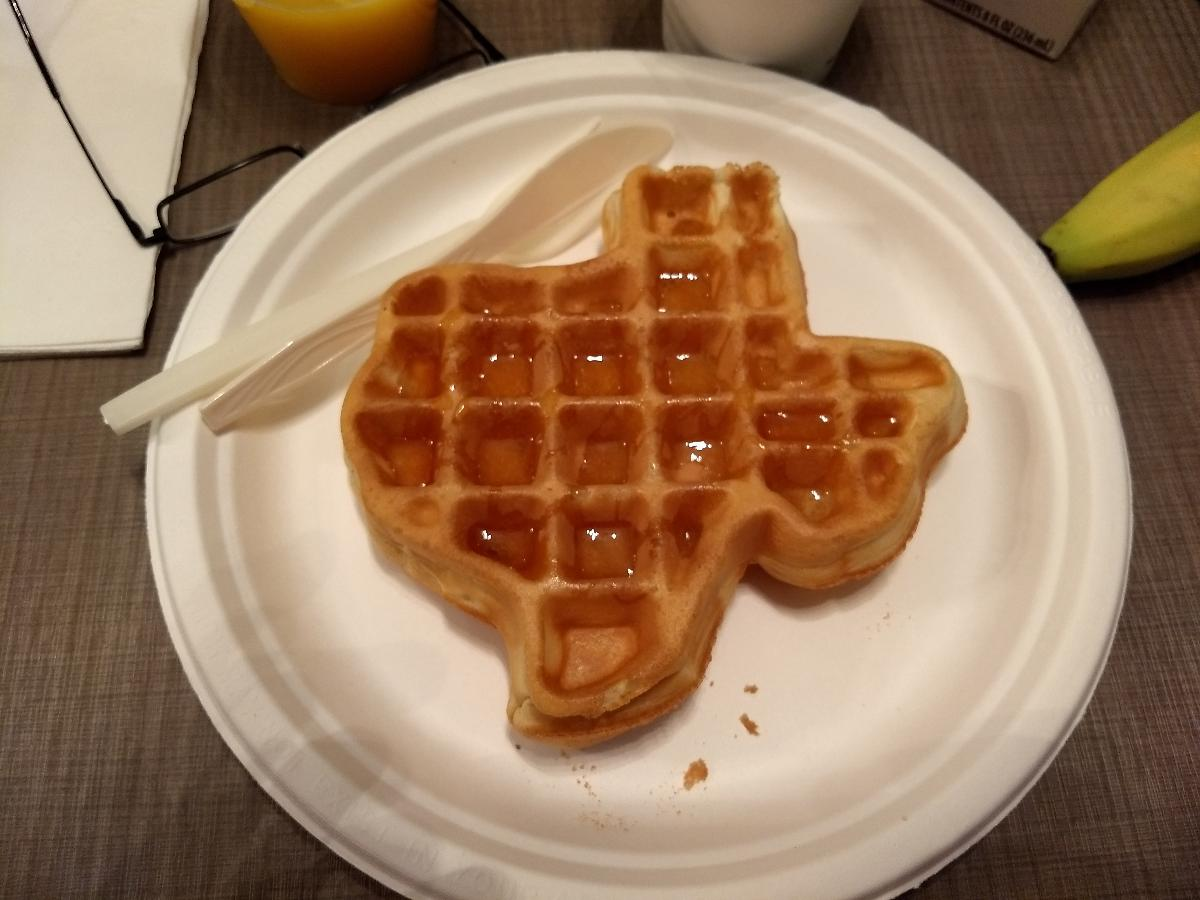
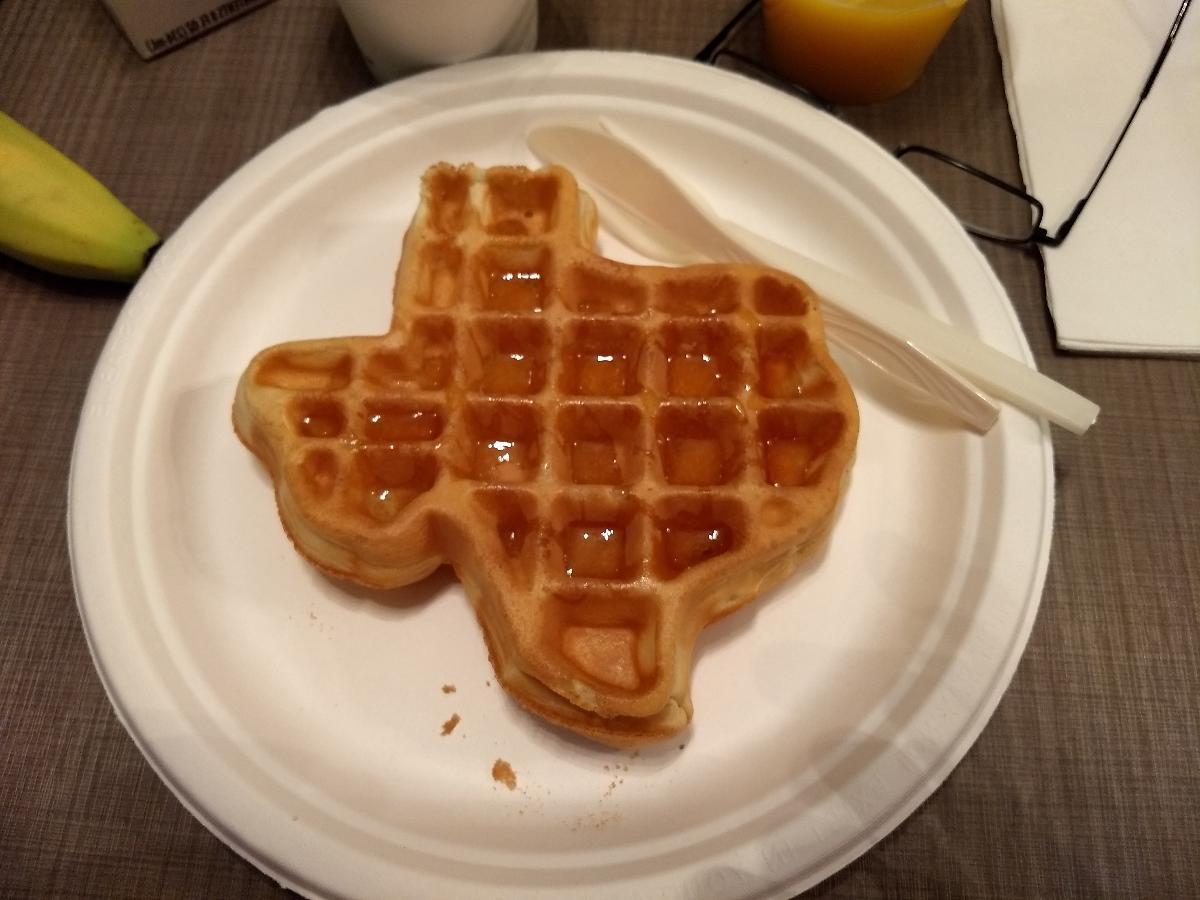
Final photos in texas trip album

diff --git a/Photos/Texas2018/photofilelist.js b/Photos/Texas2018/photofilelist.js
@@ -1,1 +1,1 @@
-var photoFileListJSONString = '{"displayWindow":{"width":"1200","height":"900","title":"Texas 2018"},"images":[{"src":"2018-01-15_16-09-33_889.jpeg","caption":"After 4 hours of white knuckle driving on icy roads in Minnesota and Northern Iowa we were cruising along south of Des Moines when Julie said; What an amazing Sundog! After teaching me what a Sundog was I had her take a couple of pictures."},{"src":"2018-01-15_16-12-50_419.jpeg","caption":"Sundog!"},{"src":"IMG_20180117_085115771 (1).jpg","caption":"The hotel waffle makers in Texas want to make sure you know what state you are in. Too bad I didn\'t get it on the plate properly (needed to flip horizontally)."},{"src":"IMG_20180117_130140294 (1).jpg","caption":"Had to make a stop by Waco to see Chip and Joanna\'s place. Guess it is the number one tourist attraction in Texas, ahead of San Antonio and the Alamo. There were a lot of folks there even with the 30 degree weather, guess they closed the schools and government offices due to the cold weather!!!"},{"src":"IMG_20180117_122415108_BURST001 (1).jpg","caption":"Waco"},{"src":"IMG_20180117_123819022.jpg","caption":"Waco, Julie to the right getting some interior decorations for the house (cotton plants)"},{"src":"IMG_20180117_124302272.jpg","caption":"Waco, the silos"},{"src":"IMG_20180117_124849993.jpg","caption":"Waco, needed to fuel up a bit for the drive to Austin and get something in our stomach."},{"src":"IMG_20180117_140912509_HDR.jpg","caption":"Waco (actually McGregor), the house that started it all with Fixer Upper. It seems that most of the houses are now BNB\'s, AirBNB, or vacation rental places. We looked at a few of the houses that were on the show and they all still looked really nice, although many were in questionable neighborhoods. Waco seems to be a very depressed town, although there are some very nice neighborhoods."},{"src":"IMG_20180118_110455691.jpg","caption":"Austin: Upper 30\'s made our plan of a bike ride unrealistic so we decided to do some urban hiking in downtown Austin and along Ladybird Lake."},{"src":"IMG_20180118_112640115_HDR.jpg","caption":"Austin: Amazing all the building of high rise apartments and condos. The view from the Congress Avenue Bridge."},{"src":"IMG_20180118_112645788_HDR.jpg","caption":"Austin: Julie walking across Congress Avenue Bridge."},{"src":"IMG_20180118_115632166_HDR.jpg","caption":"Austin: Deep into the downtown. Wonder what it would be like to live in this?"},{"src":"IMG_20180118_144725210_HDR.jpg","caption":"Austin: After getting a long needed car wash we drove out into the hill country to Marble Falls. We stopped at Spicewood Vineyards for for a glass of wine. A very nice setting and some good wines. They gave us a few samples to try in selecting a wine and then a few after. Ended up picking up a few bottles of their Tempranillo that was based on grapes from the Texas high country."},{"src":"IMG_20180120_120607014.jpg","caption":"South Padre Island: Ready to get the first bike ride of 2018 on it\'s way."},{"src":"IMG_20180120_103705664_BURST001.jpg","caption":"South Padre Island: Leaving the developed part of the island behind as we head north."},{"src":"IMG_20180120_105924839_BURST000_COVER_TOP.jpg","caption":"South Padre Island: Into the dunes, each time we rode this ride the dunes were covering the road differently. Not sure how often they plow the sand off the road."},{"src":"IMG_20180120_105941171.jpg","caption":"South Padre Island: Mist and sand dunes, yes we are still on the road"},{"src":"IMG_20180120_110933975.jpg","caption":"South Padre Island: Sign says it all."},{"src":"IMG_20180120_111259176.jpg","caption":"South Padre Island: Dunes"},{"src":"IMG_20180120_111831049.jpg","caption":"South Padre Island: Dunes looking north"},{"src":"IMG_20180120_111857674.jpg","caption":"South Padre Island: Julie venturing on the dunes looking towards the Northwest. If it was clearer you would see a big windmill farm."},{"src":"IMG_20180120_124219207_HDR.jpg","caption":"South Padre Island: Lunch special at Blackbeards\' just down the road from our rental. Good food."},{"src":"IMG_20180120_175622009.jpg","caption":"South Padre Island: Sunset and end of a good first day."},{"src":"P1020193.JPG","caption":"South Padre Island: Not sure about a restaurant and bait shop combo, we never ventured in for a meal."},{"src":"P1020198.JPG","caption":"South Padre Island: Cristo de los Pescadores (Christ of the Fishermen). The memorial was donated to the Brownsville-Port Isabel Shrimp Producers Association by the De la Lastra Family in memory of Gustavo De la Lastra and Jose Edwardo De la Lastra. Around the base of the statue of Jesus is an inscription that reads (Father! Receive the souls of these brave fishermen who have sailed through this pass and never returned.)"},{"src":"P1020194.JPG","caption":"South Padre Island: Shrimping boat heading out of the harbor. "},{"src":"IMG_20180121_125838201.jpg","caption":"South Padre Island: Windy day (all the days were windy) calls for kite surfing."},{"src":"P1020203.JPG","caption":"South Padre Island: More kite surfing"},{"src":"P1020205.JPG","caption":"South Padre Island: More kite surfing and freighter heading out of the harbor."},{"src":"IMG_20180121_125003854.jpg","caption":"South Padre Island: More kite surfing"},{"src":"P1020211.JPG","caption":"South Padre Island: You know you are south when there are cacti"},{"src":"P1020213.JPG","caption":"South Padre Island: Home to many species of birds. Check our my slide show on the birds of South Padre Island."},{"src":"IMG_20180122_091742945.jpg","caption":"South Padre Island: A cloudy start to day three on our morning walk."},{"src":"P1020219.JPG","caption":"South Padre Island: Kite surfing at the local windsurf and kite surf club beach."},{"src":"P1020218.JPG","caption":"South Padre Island: Dunes about halfway up the road"},{"src":"P1020227.JPG","caption":"South Padre Island: The rain started to bring out the flowers."},{"src":"P1020228.JPG","caption":"South Padre Island: The Cactus was getting ready to bloom but we never saw one bloom out."},{"src":"IMG_20180122_174838940.jpg","caption":"South Padre Island: Dinner at Pier 19, nice restaurant with a water view and great service. Food was a mixed bag as my soup was amazing but Julie\'s seafood pasta was just okay. Nice way to end day three"},{"src":"IMG_20180123_094520454_HDR.jpg","caption":"South Padre Island: An eerie start to day four on our morning walk."},{"src":"IMG_20180123_094555768.jpg","caption":"South Padre Island: Things cleared up and despite being a bit cool it was a beautiful day"},{"src":"P1020238.JPG","caption":"South Padre Island: Beach fishing seemed to be a popular sport"},{"src":"IMG_20180123_131055124.jpg","caption":"South Padre Island: Low tide bike ride on the beach."},{"src":"P1020258.JPG","caption":"South Padre Island: The jetty on the south end of the island."},{"src":"P1020250.JPG","caption":"South Padre Island: Somebody actually catching a fish"},{"src":"P1020255.JPG","caption":"South Padre Island: Jetty seemed to be a popular place to walk and fish. We never made it out on the jetty."},{"src":"P1020271.JPG","caption":"South Padre Island: Even with many signs against feeding the birds we saw many folks doing it. Guess that is was they are so aggressive when you are eating outside."},{"src":"IMG_20180123_143024005_HDR.jpg","caption":"South Padre Island: Nice to relax outside and have a beverage and lunch at Boomerang Billie\'s"},{"src":"IMG_20180123_144821095_HDR.jpg","caption":"South Padre Island: Nice to relax outside and have a beverage and lunch at Boomerang Billie\'s, best seafood we had on the island."},{"src":"P1020273.JPG","caption":"South Padre Island: The day of rain on Wednesday brought out more wildflowers on Thursday"},{"src":"P1020279.JPG","caption":"South Padre Island: We always puzzled over what this was. A little oasis about halfway up the island."},{"src":"P1020280.JPG","caption":"South Padre Island: Shifting dunes always made the ride different"},{"src":"P1020285.JPG","caption":"South Padre Island: Seemed to be a popular activity, there were always groups out for a ride."},{"src":"P1020290.JPG","caption":"South Padre Island: Another popular activity, looking for shells"},{"src":"P1020297.JPG","caption":"South Padre Island: More flowers"},{"src":"P1020278.JPG","caption":"South Padre Island: More flowers with a bit of rain/dew"},{"src":"P1020422.JPG","caption":"South Padre Island: More flowers"},{"src":"IMG_20180126_180154127.jpg","caption":"South Padre Island: Just down a few doors down from our rental"},{"src":"P1020428.JPG","caption":"South Padre Island: So many shells to choose from..."},{"src":"P1020429.JPG","caption":"South Padre Island: A few choice ones"},{"src":"P1020446.JPG","caption":"South Padre Island: The benefit of rainy weather"},{"src":"IMG_20180126_181126410.jpg","caption":"South Padre Island: A nice way to end the first week"},{"src":"IMG_20180126_181453996.jpg","caption":"South Padre Island: A nice way to end the first week"},{"src":"P1020447.jpg","caption":"South Padre Island: A foggy start for a morning walk"},{"src":"IMG_20180127_151556363_HDR.jpg","caption":"South Padre Island: Port Isabel light house"},{"src":"2018-01-27_15-53-55_241.jpg","caption":"South Padre Island: Over to Port Isabel on the fishing pier"},{"src":"IMG_20180127_154045460.jpg","caption":"South Padre Island: Wow biggest freshwater version I have caught on the Mississippi is 5 pounds."},{"src":"IMG_20180127_154345169.jpg","caption":"South Padre Island: Port Isabel the bridge to south padre island swallowed by fog."},{"src":"IMG_20180128_151940311_HDR.jpg","caption":"South Padre Island: The highlight of this day was a 2 hour guided tour of the birding center."},{"src":"P1020464.JPG","caption":"South Padre Island: Not a bird but pretty just the same"},{"src":"P1020481.JPG","caption":"South Padre Island: Gray Herring"},{"src":"P1020519.JPG","caption":"South Padre Island: Roseate Spoonbill, Seagulls, and redhead duck"},{"src":"IMG_20180128_160947028.jpg","caption":"South Padre Island: Late lunch at The Palms Resort, amazing crab cakes and homemade potato chips."},{"src":"IMG_20180129_143655603.jpg","caption":"South Padre Island: Since it was supposed to be cool and very windy on the island we headed to Brownsville where it was supposed to be warmer (and it was) and less windy (not!!!) to ride the Historic Battlefield Trail. We battled 30-40 MPH winds all the way out for 8 miles and decided to turn around at the spur to the battlefield park (1 more mile). Not the most scenic of bike trails as it mostly goes through neighborhoods with a bit of a greenway."},{"src":"IMG_20180129_175916916_HDR.jpg","caption":"South Padre Island: Sunset pier"},{"src":"IMG_20180129_181018451.jpg","caption":"South Padre Island: Sunset pier"},{"src":"IMG_20180129_175651155.jpg","caption":"South Padre Island: Sunset pier a nice way to end the day"},{"src":"IMG_20180130_133441481.jpg","caption":"South Padre Island: They were busy redoing the sidewalks in preparation for spring break, very nice logo."},{"src":"P1020535.JPG","caption":"South Padre Island: You could rent this, but we did not think it was all that safe looking with the traffic on the road."},{"src":"P1020546.JPG","caption":"South Padre Island: Back to Boomerang Billie\'s for some beer and lunch"},{"src":"P1020552.JPG","caption":"South Padre Island: Once the food came we were popular with the birds a bit freaky."},{"src":"P1020556.JPG","caption":"South Padre Island: Shrimper heading along the shore"},{"src":"P1020559.JPG","caption":"South Padre Island: Up early today for the full lunar eclipse, just getting started."},{"src":"P1020603.JPG","caption":"South Padre Island: Lunar eclipse, the best I could manage as the sun was starting to rise."},{"src":"P1020595.JPG","caption":"South Padre Island: Lunar eclipse from sunset pier (a bit ironic)"},{"src":"P1020611.JPG","caption":"South Padre Island: Sunrise starting"},{"src":"P1020645.JPG","caption":"South Padre Island: Sunrise, the only time we got up early enough for it on our trip!"},{"src":"IMG_20180131_071528292_HDR.jpg","caption":"South Padre Island: Sunrise"},{"src":"P1020696.JPG","caption":"South Padre Island: Kite flying as it was getting close the SPI kite festival."},{"src":"P1020697.JPG","caption":"South Padre Island: Kite flying."},{"src":"P1020699.JPG","caption":"South Padre Island: About as clear a view up the beach as we got all trip, tended to be pretty misty."},{"src":"P1020685.JPG","caption":"South Padre Island: Dolphin playing ahead of a cargo ship coming into the port of Brownsville."},{"src":"P1020691.JPG","caption":"South Padre Island: Tug that was helping the ship navigate a tight corner."},{"src":"P1020692.JPG","caption":"South Padre Island: Around the corner on their way to the port of Brownsville, about another 10 miles or so."},{"src":"P1020695.JPG","caption":"South Padre Island: Then benefit of a few rainy days, the wildflowers were emerging."},{"src":"P1020703.JPG","caption":"South Padre Island: Then benefit of a few rainy days, the wildflowers were emerging."},{"src":"P1020675.JPG","caption":"South Padre Island: Oysters at low tide."},{"src":"P1020712.JPG","caption":"South Padre Island: Sunset at the walkways near the birding center and convention center"},{"src":"P1020717.JPG","caption":"South Padre Island: Sunset at the walkways near the birding center and convention center"},{"src":"P1020728.JPG","caption":"South Padre Island: Sunset at the walkways near the birding center and convention center"},{"src":"P1020743.JPG","caption":"South Padre Island: Blue moon, with a few clouds. I head hoped to get a picture of the blue moon coming up over the ocean but the clouds had made that impossible."},{"src":"P1020747.JPG","caption":"South Padre Island: A clear shot of the blue moon. Quite the day time, for bed."},{"src":"IMG_20180201_110638656.jpg","caption":"South Padre Island: A nice clear day low tide for riding on the beach."},{"src":"P1020756.JPG","caption":"South Padre Island: A nice clear day low tide for riding on the beach."},{"src":"IMG_20180201_131309808.jpg","caption":"South Padre Island: Just seemed like we would miss the cactus blooms."},{"src":"P1020764.JPG","caption":"South Padre Island: Stop at the butterfly garden."},{"src":"P1020763.JPG","caption":"South Padre Island: Stop at the butterfly garden."},{"src":"P1020759.JPG","caption":"South Padre Island: Stop at the butterfly garden. No butterflies, but plenty of caterpillars. "},{"src":"P1020774.JPG","caption":"South Padre Island: You looking at me?"},{"src":"P1020768.JPG","caption":"South Padre Island: An end to a nice day."},{"src":"IMG_20180202_112952282.jpg","caption":"South Padre Island: Jellyfish!!!"},{"src":"IMG_20180202_110919053_HDR.jpg","caption":"South Padre Island: A cold and windy last day, but good for the kite festival. "},{"src":"IMG_20180202_111142556_HDR.jpg","caption":"South Padre Island: A cold and windy last day, but good for the kite festival."},{"src":"IMG_20180203_120803474.jpg","caption":"Corpus Christi: A quick stop to take a look, a very nice waterfront."},{"src":"IMG_20180203_120742318_BURST000_COVER_TOP.jpg","caption":"Corpus Christi: A quick stop to take a look, a very nice waterfront."},{"src":"2018-02-03_15-40-31_956.jpeg","caption":"San Antonio: Quite the amazing city!"},{"src":"IMG_20180203_154043606.jpg","caption":"San Antonio: Riverwalk"},{"src":"IMG_20180203_153915098.jpg","caption":"San Antonio: Riverwalk"},{"src":"2018-02-03_16-26-51_049.jpeg","caption":"San Antonio: Riverwalk"},{"src":"IMG_20180203_154629118_HDR.jpg","caption":"San Antonio: Riverwalk"},{"src":"IMG_20180203_163121008_HDR.jpg","caption":"San Antonio: Riverwalk"},{"src":"IMG_20180203_155656232_HDR.jpg","caption":"San Antonio: The Alamo"},{"src":"2018-02-03_16-14-15_026.jpeg","caption":"San Antonio: The Alamo"},{"src":"IMG_20180203_161620261_HDR.jpg","caption":"San Antonio: Emily Morgan Hotel "},{"src":"IMG_20180203_171810815.jpg","caption":"San Antonio: We got thirsty with all the walking..."},{"src":"IMG_20180203_182354053.jpg","caption":"San Antonio: St Mary\'s Church"},{"src":"IMG_20180203_191828495.jpg","caption":"San Antonio: Margarita time!"},{"src":"IMG_20180204_091915264_HDR.jpg","caption":"San Antonio: Morning brought sunshine and warmth, heading to an 80 degree day."},{"src":"IMG_20180204_094751427.jpg","caption":"San Antonio: Meaning it was a good day for a long bike ride on the amazing river walk trail south of town to see the missions."},{"src":"P1020796.JPG","caption":"San Antonio: First mission of the ride."},{"src":"P1020798.JPG","caption":"San Antonio: Mission San Jose "},{"src":"P1020800.JPG","caption":"San Antonio: Mission San Jose "},{"src":"P1020799.JPG","caption":"San Antonio: Mission San Jose "},{"src":"P1020805.JPG","caption":"San Antonio: Mission San Jose "},{"src":"P1020802.JPG","caption":"San Antonio: Mission San Jose living quarters for the native american population."},{"src":"P1020809.JPG","caption":"San Antonio: Mission San Jose religious living quarters."},{"src":"P1020810.JPG","caption":"San Antonio: Mission San Jose rose window through which the unbaptized would listen to Mass."},{"src":"P1020812.JPG","caption":"San Antonio: Mission San Jose the original church had plaster and was painted."},{"src":"P1020814.JPG","caption":"San Antonio: Mission San Jose, the actual church was very small in size."},{"src":"IMG_20180204_122139731.jpg","caption":"San Antonio: Continuing down the bike trail."},{"src":"P1020795.JPG","caption":"San Antonio: River flood control, this is where the city bypass joins the river."},{"src":"P1020794.JPG","caption":"San Antonio: We did not detour for a tasting."},{"src":"P1020816.JPG","caption":"San Antonio: Mission San Francisco De La Espada. The south most mission we visited."},{"src":"P1020818.JPG","caption":"San Antonio: Mission San Francisco De La Espada"},{"src":"IMG_20180204_121412497.jpg","caption":"San Antonio: Mission San Francisco De La Espada"},{"src":"IMG_20180204_131221370.jpg","caption":"San Antonio: Mission Concepcion"},{"src":"P1020825.JPG","caption":"San Antonio: Mission Concepcion"},{"src":"P1020826.JPG","caption":"San Antonio: Mission Concepcion"},{"src":"P1020828.JPG","caption":"San Antonio: Mission Concepcion"},{"src":"P1020827.JPG","caption":"San Antonio: Mission Concepcion"},{"src":"P1020830.JPG","caption":"San Antonio: Mission Concepcion a parting shot"},{"src":"P1020833.JPG","caption":"San Antonio: We ventured through this famous district of town."},{"src":"P1020838.JPG","caption":"San Antonio: King William district"},{"src":"P1020837.JPG","caption":"San Antonio: King William district"},{"src":"P1020834.JPG","caption":"San Antonio: King William district"},{"src":"P1020832.JPG","caption":"San Antonio: King William district"},{"src":"P1020840.JPG","caption":"San Antonio: Looking upstream to downtown and the Tower Life Building."},{"src":"P1020866.JPG","caption":"San Antonio: Showered, refreshed and time for a guided boat ride through San Antonio (highly recommended)"},{"src":"P1020843.JPG","caption":"San Antonio: Boat ride views"},{"src":"P1020849.JPG","caption":"San Antonio: Boat ride views"},{"src":"P1020870.JPG","caption":"San Antonio: Boat ride views"},{"src":"P1020856.JPG","caption":"San Antonio: Boat ride views, Tower of the Americas"},{"src":"P1020872.JPG","caption":"San Antonio: Tower of Life Building"},{"src":"P1020875.JPG","caption":"San Antonio:"},{"src":"IMG_20180204_163613421_HDR.jpg","caption":"San Antonio: River walk"},{"src":"IMG_20180204_173348214.jpg","caption":"San Antonio: River walk"},{"src":"P1020878.JPG","caption":"San Antonio: River walk"},{"src":"IMG_20180204_173939428.jpg","caption":"San Antonio: River walk"},{"src":"IMG_20180204_171901908.jpg","caption":"San Antonio: River walk, time to have some dinner."}]}'
+var photoFileListJSONString = '{"displayWindow":{"width":"1200","height":"900","title":"Texas 2018"},"images":[{"src":"2018-01-15_16-09-33_889.jpeg","caption":"After 4 hours of white knuckle driving on icy roads in Minnesota and Northern Iowa we were cruising along south of Des Moines when Julie said; What an amazing Sundog! After teaching me what a Sundog was I had her take a couple of pictures."},{"src":"2018-01-15_16-12-50_419.jpeg","caption":"Sundog!"},{"src":"IMG_20180117_085115771 (1).jpg","caption":"The hotel waffle makers in Texas want to make sure you know what state you are in."},{"src":"IMG_20180117_130140294 (1).jpg","caption":"Had to make a stop by Waco to see Chip and Joanna\'s place. Guess it is the number one tourist attraction in Texas, ahead of San Antonio and the Alamo. There were a lot of folks there even with the 30 degree weather, guess they closed the schools and government offices due to the cold weather!!!"},{"src":"IMG_20180117_122415108_BURST001 (1).jpg","caption":"Waco"},{"src":"IMG_20180117_123819022.jpg","caption":"Waco, Julie to the right getting some interior decorations for the house (cotton plants)"},{"src":"IMG_20180117_124302272.jpg","caption":"Waco, the silos"},{"src":"IMG_20180117_124849993.jpg","caption":"Waco, needed to fuel up a bit for the drive to Austin and get something in our stomach."},{"src":"IMG_20180117_140912509_HDR.jpg","caption":"Waco (actually McGregor), the house that started it all with Fixer Upper. It seems that most of the houses are now BNB\'s, AirBNB, or vacation rental places. We looked at a few of the houses that were on the show and they all still looked really nice, although many were in questionable neighborhoods. Waco seems to be a very depressed town, although there are some very nice neighborhoods."},{"src":"IMG_20180118_110455691.jpg","caption":"Austin: Upper 30\'s made our plan of a bike ride unrealistic so we decided to do some urban hiking in downtown Austin and along Ladybird Lake."},{"src":"IMG_20180118_112640115_HDR.jpg","caption":"Austin: Amazing all the building of high rise apartments and condos. The view from the Congress Avenue Bridge."},{"src":"IMG_20180118_112645788_HDR.jpg","caption":"Austin: Julie walking across Congress Avenue Bridge."},{"src":"IMG_20180118_115632166_HDR.jpg","caption":"Austin: Deep into the downtown. Wonder what it would be like to live in this?"},{"src":"IMG_20180118_144725210_HDR.jpg","caption":"Austin: After getting a long needed car wash we drove out into the hill country to Marble Falls. We stopped at Spicewood Vineyards for for a glass of wine. A very nice setting and some good wines. They gave us a few samples to try in selecting a wine and then a few after. Ended up picking up a few bottles of their Tempranillo that was based on grapes from the Texas high country."},{"src":"IMG_20180120_120607014.jpg","caption":"South Padre Island: Ready to get the first bike ride of 2018 on it\'s way."},{"src":"IMG_20180120_103705664_BURST001.jpg","caption":"South Padre Island: Leaving the developed part of the island behind as we head north."},{"src":"IMG_20180120_105924839_BURST000_COVER_TOP.jpg","caption":"South Padre Island: Into the dunes, each time we rode this ride the dunes were covering the road differently. Not sure how often they plow the sand off the road."},{"src":"IMG_20180120_105941171.jpg","caption":"South Padre Island: Mist and sand dunes, yes we are still on the road"},{"src":"IMG_20180120_110933975.jpg","caption":"South Padre Island: Sign says it all."},{"src":"IMG_20180120_111259176.jpg","caption":"South Padre Island: Dunes"},{"src":"IMG_20180120_111831049.jpg","caption":"South Padre Island: Dunes looking north"},{"src":"IMG_20180120_111857674.jpg","caption":"South Padre Island: Julie venturing on the dunes looking towards the Northwest. If it was clearer you would see a big windmill farm."},{"src":"IMG_20180120_124219207_HDR.jpg","caption":"South Padre Island: Lunch special at Blackbeards\' just down the road from our rental. Good food."},{"src":"IMG_20180120_175622009.jpg","caption":"South Padre Island: Sunset and end of a good first day."},{"src":"P1020193.JPG","caption":"South Padre Island: Not sure about a restaurant and bait shop combo, we never ventured in for a meal."},{"src":"P1020198.JPG","caption":"South Padre Island: Cristo de los Pescadores (Christ of the Fishermen). The memorial was donated to the Brownsville-Port Isabel Shrimp Producers Association by the De la Lastra Family in memory of Gustavo De la Lastra and Jose Edwardo De la Lastra. Around the base of the statue of Jesus is an inscription that reads (Father! Receive the souls of these brave fishermen who have sailed through this pass and never returned.)"},{"src":"P1020194.JPG","caption":"South Padre Island: Shrimping boat heading out of the harbor. "},{"src":"IMG_20180121_125838201.jpg","caption":"South Padre Island: Windy day (all the days were windy) calls for kite surfing."},{"src":"P1020203.JPG","caption":"South Padre Island: More kite surfing"},{"src":"P1020205.JPG","caption":"South Padre Island: More kite surfing and freighter heading out of the harbor."},{"src":"IMG_20180121_125003854.jpg","caption":"South Padre Island: More kite surfing"},{"src":"P1020211.JPG","caption":"South Padre Island: You know you are south when there are cacti"},{"src":"P1020213.JPG","caption":"South Padre Island: Home to many species of birds. Check our my slide show on the birds of South Padre Island."},{"src":"IMG_20180122_091742945.jpg","caption":"South Padre Island: A cloudy start to day three on our morning walk."},{"src":"P1020219.JPG","caption":"South Padre Island: Kite surfing at the local windsurf and kite surf club beach."},{"src":"P1020218.JPG","caption":"South Padre Island: Dunes about halfway up the road"},{"src":"P1020227.JPG","caption":"South Padre Island: The rain started to bring out the flowers."},{"src":"P1020228.JPG","caption":"South Padre Island: The Cactus was getting ready to bloom but we never saw one bloom out."},{"src":"IMG_20180122_174838940.jpg","caption":"South Padre Island: Dinner at Pier 19, nice restaurant with a water view and great service. Food was a mixed bag as my soup was amazing but Julie\'s seafood pasta was just okay. Nice way to end day three"},{"src":"IMG_20180123_094520454_HDR.jpg","caption":"South Padre Island: An eerie start to day four on our morning walk."},{"src":"IMG_20180123_094555768.jpg","caption":"South Padre Island: Things cleared up and despite being a bit cool it was a beautiful day"},{"src":"P1020238.JPG","caption":"South Padre Island: Beach fishing seemed to be a popular sport"},{"src":"IMG_20180123_131055124.jpg","caption":"South Padre Island: Low tide bike ride on the beach."},{"src":"P1020258.JPG","caption":"South Padre Island: The jetty on the south end of the island."},{"src":"P1020250.JPG","caption":"South Padre Island: Somebody actually catching a fish"},{"src":"P1020255.JPG","caption":"South Padre Island: Jetty seemed to be a popular place to walk and fish. We never made it out on the jetty."},{"src":"P1020271.JPG","caption":"South Padre Island: Even with many signs against feeding the birds we saw many folks doing it. Guess that is was they are so aggressive when you are eating outside."},{"src":"IMG_20180123_143024005_HDR.jpg","caption":"South Padre Island: Nice to relax outside and have a beverage and lunch at Boomerang Billie\'s"},{"src":"IMG_20180123_144821095_HDR.jpg","caption":"South Padre Island: Nice to relax outside and have a beverage and lunch at Boomerang Billie\'s, best seafood we had on the island."},{"src":"P1020273.JPG","caption":"South Padre Island: The day of rain on Wednesday brought out more wildflowers on Thursday"},{"src":"P1020279.JPG","caption":"South Padre Island: We always puzzled over what this was. A little oasis about halfway up the island."},{"src":"P1020280.JPG","caption":"South Padre Island: Shifting dunes always made the ride different"},{"src":"P1020285.JPG","caption":"South Padre Island: Seemed to be a popular activity, there were always groups out for a ride."},{"src":"P1020290.JPG","caption":"South Padre Island: Another popular activity, looking for shells"},{"src":"P1020297.JPG","caption":"South Padre Island: More flowers"},{"src":"P1020278.JPG","caption":"South Padre Island: More flowers with a bit of rain/dew"},{"src":"P1020422.JPG","caption":"South Padre Island: More flowers"},{"src":"IMG_20180126_180154127.jpg","caption":"South Padre Island: Just down a few doors down from our rental"},{"src":"P1020428.JPG","caption":"South Padre Island: So many shells to choose from..."},{"src":"P1020429.JPG","caption":"South Padre Island: A few choice ones"},{"src":"P1020446.JPG","caption":"South Padre Island: The benefit of rainy weather"},{"src":"IMG_20180126_181126410.jpg","caption":"South Padre Island: A nice way to end the first week"},{"src":"IMG_20180126_181453996.jpg","caption":"South Padre Island: A nice way to end the first week"},{"src":"P1020447.jpg","caption":"South Padre Island: A foggy start for a morning walk"},{"src":"IMG_20180127_151556363_HDR.jpg","caption":"South Padre Island: Port Isabel light house"},{"src":"2018-01-27_15-53-55_241.jpg","caption":"South Padre Island: Over to Port Isabel on the fishing pier"},{"src":"IMG_20180127_154045460.jpg","caption":"South Padre Island: Wow biggest freshwater version I have caught on the Mississippi is 5 pounds."},{"src":"IMG_20180127_154345169.jpg","caption":"South Padre Island: Port Isabel the bridge to south padre island swallowed by fog."},{"src":"IMG_20180128_151940311_HDR.jpg","caption":"South Padre Island: The highlight of this day was a 2 hour guided tour of the birding center."},{"src":"P1020464.JPG","caption":"South Padre Island: Not a bird but pretty just the same"},{"src":"P1020481.JPG","caption":"South Padre Island: Gray Herring"},{"src":"P1020519.JPG","caption":"South Padre Island: Roseate Spoonbill, Seagulls, and redhead duck"},{"src":"IMG_20180128_160947028.jpg","caption":"South Padre Island: Late lunch at The Palms Resort, amazing crab cakes and homemade potato chips."},{"src":"IMG_20180129_143655603.jpg","caption":"South Padre Island: Since it was supposed to be cool and very windy on the island we headed to Brownsville where it was supposed to be warmer (and it was) and less windy (not!!!) to ride the Historic Battlefield Trail. We battled 30-40 MPH winds all the way out for 8 miles and decided to turn around at the spur to the battlefield park (1 more mile). Not the most scenic of bike trails as it mostly goes through neighborhoods with a bit of a greenway."},{"src":"IMG_20180129_175916916_HDR.jpg","caption":"South Padre Island: Sunset pier"},{"src":"IMG_20180129_181018451.jpg","caption":"South Padre Island: Sunset pier"},{"src":"IMG_20180129_175651155.jpg","caption":"South Padre Island: Sunset pier a nice way to end the day"},{"src":"IMG_20180130_133441481.jpg","caption":"South Padre Island: They were busy redoing the sidewalks in preparation for spring break, very nice logo."},{"src":"P1020535.JPG","caption":"South Padre Island: You could rent this, but we did not think it was all that safe looking with the traffic on the road."},{"src":"P1020546.JPG","caption":"South Padre Island: Back to Boomerang Billie\'s for some beer and lunch"},{"src":"P1020552.JPG","caption":"South Padre Island: Once the food came we were popular with the birds a bit freaky."},{"src":"P1020556.JPG","caption":"South Padre Island: Shrimper heading along the shore"},{"src":"P1020559.JPG","caption":"South Padre Island: Up early today for the full lunar eclipse, just getting started."},{"src":"P1020603.JPG","caption":"South Padre Island: Lunar eclipse, the best I could manage as the sun was starting to rise."},{"src":"P1020595.JPG","caption":"South Padre Island: Lunar eclipse from sunset pier (a bit ironic)"},{"src":"P1020611.JPG","caption":"South Padre Island: Sunrise starting"},{"src":"P1020645.JPG","caption":"South Padre Island: Sunrise, the only time we got up early enough for it on our trip!"},{"src":"IMG_20180131_071528292_HDR.jpg","caption":"South Padre Island: Sunrise"},{"src":"P1020696.JPG","caption":"South Padre Island: Kite flying as it was getting close the SPI kite festival."},{"src":"P1020697.JPG","caption":"South Padre Island: Kite flying."},{"src":"P1020699.JPG","caption":"South Padre Island: About as clear a view up the beach as we got all trip, tended to be pretty misty."},{"src":"P1020685.JPG","caption":"South Padre Island: Dolphin playing ahead of a cargo ship coming into the port of Brownsville."},{"src":"P1020691.JPG","caption":"South Padre Island: Tug that was helping the ship navigate a tight corner."},{"src":"P1020692.JPG","caption":"South Padre Island: Around the corner on their way to the port of Brownsville, about another 10 miles or so."},{"src":"P1020695.JPG","caption":"South Padre Island: Then benefit of a few rainy days, the wildflowers were emerging."},{"src":"P1020703.JPG","caption":"South Padre Island: Then benefit of a few rainy days, the wildflowers were emerging."},{"src":"P1020675.JPG","caption":"South Padre Island: Oysters at low tide."},{"src":"P1020712.JPG","caption":"South Padre Island: Sunset at the walkways near the birding center and convention center"},{"src":"P1020717.JPG","caption":"South Padre Island: Sunset at the walkways near the birding center and convention center"},{"src":"P1020728.JPG","caption":"South Padre Island: Sunset at the walkways near the birding center and convention center"},{"src":"P1020743.JPG","caption":"South Padre Island: Blue moon, with a few clouds. I head hoped to get a picture of the blue moon coming up over the ocean but the clouds had made that impossible."},{"src":"P1020747.JPG","caption":"South Padre Island: A clear shot of the blue moon. Quite the day time, for bed."},{"src":"IMG_20180201_110638656.jpg","caption":"South Padre Island: A nice clear day low tide for riding on the beach."},{"src":"P1020756.JPG","caption":"South Padre Island: A nice clear day low tide for riding on the beach."},{"src":"IMG_20180201_131309808.jpg","caption":"South Padre Island: Just seemed like we would miss the cactus blooms."},{"src":"P1020764.JPG","caption":"South Padre Island: Stop at the butterfly garden."},{"src":"P1020763.JPG","caption":"South Padre Island: Stop at the butterfly garden."},{"src":"P1020759.JPG","caption":"South Padre Island: Stop at the butterfly garden. No butterflies, but plenty of caterpillars. "},{"src":"P1020774.JPG","caption":"South Padre Island: You looking at me?"},{"src":"P1020768.JPG","caption":"South Padre Island: An end to a nice day."},{"src":"IMG_20180202_112952282.jpg","caption":"South Padre Island: Jellyfish!!!"},{"src":"IMG_20180202_110919053_HDR.jpg","caption":"South Padre Island: A cold and windy last day, but good for the kite festival. "},{"src":"IMG_20180202_111142556_HDR.jpg","caption":"South Padre Island: A cold and windy last day, but good for the kite festival."},{"src":"IMG_20180203_120803474.jpg","caption":"Corpus Christi: A quick stop to take a look, a very nice waterfront."},{"src":"IMG_20180203_120742318_BURST000_COVER_TOP.jpg","caption":"Corpus Christi: A quick stop to take a look, a very nice waterfront."},{"src":"2018-02-03_15-40-31_956.jpeg","caption":"San Antonio: Quite the amazing city!"},{"src":"IMG_20180203_154043606.jpg","caption":"San Antonio: Riverwalk"},{"src":"IMG_20180203_153915098.jpg","caption":"San Antonio: Riverwalk"},{"src":"2018-02-03_16-26-51_049.jpeg","caption":"San Antonio: Riverwalk"},{"src":"IMG_20180203_154629118_HDR.jpg","caption":"San Antonio: Riverwalk"},{"src":"IMG_20180203_163121008_HDR.jpg","caption":"San Antonio: Riverwalk"},{"src":"IMG_20180203_155656232_HDR.jpg","caption":"San Antonio: The Alamo"},{"src":"2018-02-03_16-14-15_026.jpeg","caption":"San Antonio: The Alamo"},{"src":"IMG_20180203_161620261_HDR.jpg","caption":"San Antonio: Emily Morgan Hotel "},{"src":"IMG_20180203_171810815.jpg","caption":"San Antonio: We got thirsty with all the walking..."},{"src":"IMG_20180203_182354053.jpg","caption":"San Antonio: St Mary\'s Church"},{"src":"IMG_20180203_191828495.jpg","caption":"San Antonio: Margarita time!"},{"src":"IMG_20180204_091915264_HDR.jpg","caption":"San Antonio: Morning brought sunshine and warmth, heading to an 80 degree day."},{"src":"IMG_20180204_094751427.jpg","caption":"San Antonio: Meaning it was a good day for a long bike ride on the amazing river walk trail south of town to see the missions."},{"src":"P1020796.JPG","caption":"San Antonio: First mission of the ride."},{"src":"P1020798.JPG","caption":"San Antonio: Mission San Jose "},{"src":"P1020800.JPG","caption":"San Antonio: Mission San Jose "},{"src":"P1020799.JPG","caption":"San Antonio: Mission San Jose "},{"src":"P1020805.JPG","caption":"San Antonio: Mission San Jose "},{"src":"P1020802.JPG","caption":"San Antonio: Mission San Jose living quarters for the native american population."},{"src":"P1020809.JPG","caption":"San Antonio: Mission San Jose religious living quarters."},{"src":"P1020810.JPG","caption":"San Antonio: Mission San Jose rose window through which the unbaptized would listen to Mass."},{"src":"P1020812.JPG","caption":"San Antonio: Mission San Jose the original church had plaster and was painted."},{"src":"P1020814.JPG","caption":"San Antonio: Mission San Jose, the actual church was very small in size."},{"src":"IMG_20180204_122139731.jpg","caption":"San Antonio: Continuing down the bike trail."},{"src":"P1020795.JPG","caption":"San Antonio: River flood control, this is where the city bypass joins the river."},{"src":"P1020794.JPG","caption":"San Antonio: We did not detour for a tasting."},{"src":"P1020816.JPG","caption":"San Antonio: Mission San Francisco De La Espada. The south most mission we visited."},{"src":"P1020818.JPG","caption":"San Antonio: Mission San Francisco De La Espada"},{"src":"IMG_20180204_121412497.jpg","caption":"San Antonio: Mission San Francisco De La Espada"},{"src":"IMG_20180204_131221370.jpg","caption":"San Antonio: Mission Concepcion"},{"src":"P1020825.JPG","caption":"San Antonio: Mission Concepcion"},{"src":"P1020826.JPG","caption":"San Antonio: Mission Concepcion"},{"src":"P1020828.JPG","caption":"San Antonio: Mission Concepcion"},{"src":"P1020827.JPG","caption":"San Antonio: Mission Concepcion"},{"src":"P1020830.JPG","caption":"San Antonio: Mission Concepcion a parting shot"},{"src":"P1020833.JPG","caption":"San Antonio: We ventured through this famous district of town."},{"src":"P1020838.JPG","caption":"San Antonio: King William district"},{"src":"P1020837.JPG","caption":"San Antonio: King William district"},{"src":"P1020834.JPG","caption":"San Antonio: King William district"},{"src":"P1020832.JPG","caption":"San Antonio: King William district"},{"src":"P1020840.JPG","caption":"San Antonio: Looking upstream to downtown and the Tower Life Building."},{"src":"P1020866.JPG","caption":"San Antonio: Showered, refreshed and time for a guided boat ride through San Antonio (highly recommended)"},{"src":"P1020843.JPG","caption":"San Antonio: Boat ride views"},{"src":"P1020849.JPG","caption":"San Antonio: Boat ride views"},{"src":"P1020870.JPG","caption":"San Antonio: Boat ride views"},{"src":"P1020856.JPG","caption":"San Antonio: Boat ride views, Tower of the Americas"},{"src":"P1020872.JPG","caption":"San Antonio: Tower of Life Building"},{"src":"P1020875.JPG","caption":"San Antonio:"},{"src":"IMG_20180204_163613421_HDR.jpg","caption":"San Antonio: River walk"},{"src":"IMG_20180204_173348214.jpg","caption":"San Antonio: River walk"},{"src":"P1020878.JPG","caption":"San Antonio: River walk"},{"src":"IMG_20180204_173939428.jpg","caption":"San Antonio: River walk"},{"src":"IMG_20180204_171901908.jpg","caption":"San Antonio: River walk, time to have some dinner."},{"src":"27540627_10211720891037592_6032852346772833578_n.jpg","caption":"Oklahoma City: Looking across the pool to the 9:01 pillar, a minute before the bombing"},{"src":"27545294_10211720891917614_4220745472705269132_n.jpg","caption":"Oklahoma City: One chair for each victim, the smaller chairs are for the children victims :-("},{"src":"27654884_10211720892757635_2273926558230497584_n.jpg","caption":"Oklahoma City: Written by a rescuer"},{"src":"27545487_10211720894037667_94520750724443997_n.jpg","caption":"Oklahoma City: Tiles made from a few of the thousands of cards of support from children"},{"src":"24129753_10211720894397676_213853963370086053_n.jpg","caption":"Oklahoma City: Looking towards the 9:03 pillar, the minute after the bombing"},{"src":"27544651_10211720889997566_3616745032449869411_n.jpg","caption":"Oklahoma City: We got to Oklahoma City early in the afternoon and drove to the bombing memorial. It was beautifully done, simple but very moving and profound. Downtown Oklahoma City from the memorial."},{"src":"download (3).png","caption":"About 3100 miles round trip, quite the trip and a wonderful time in Texas!"}]}'
